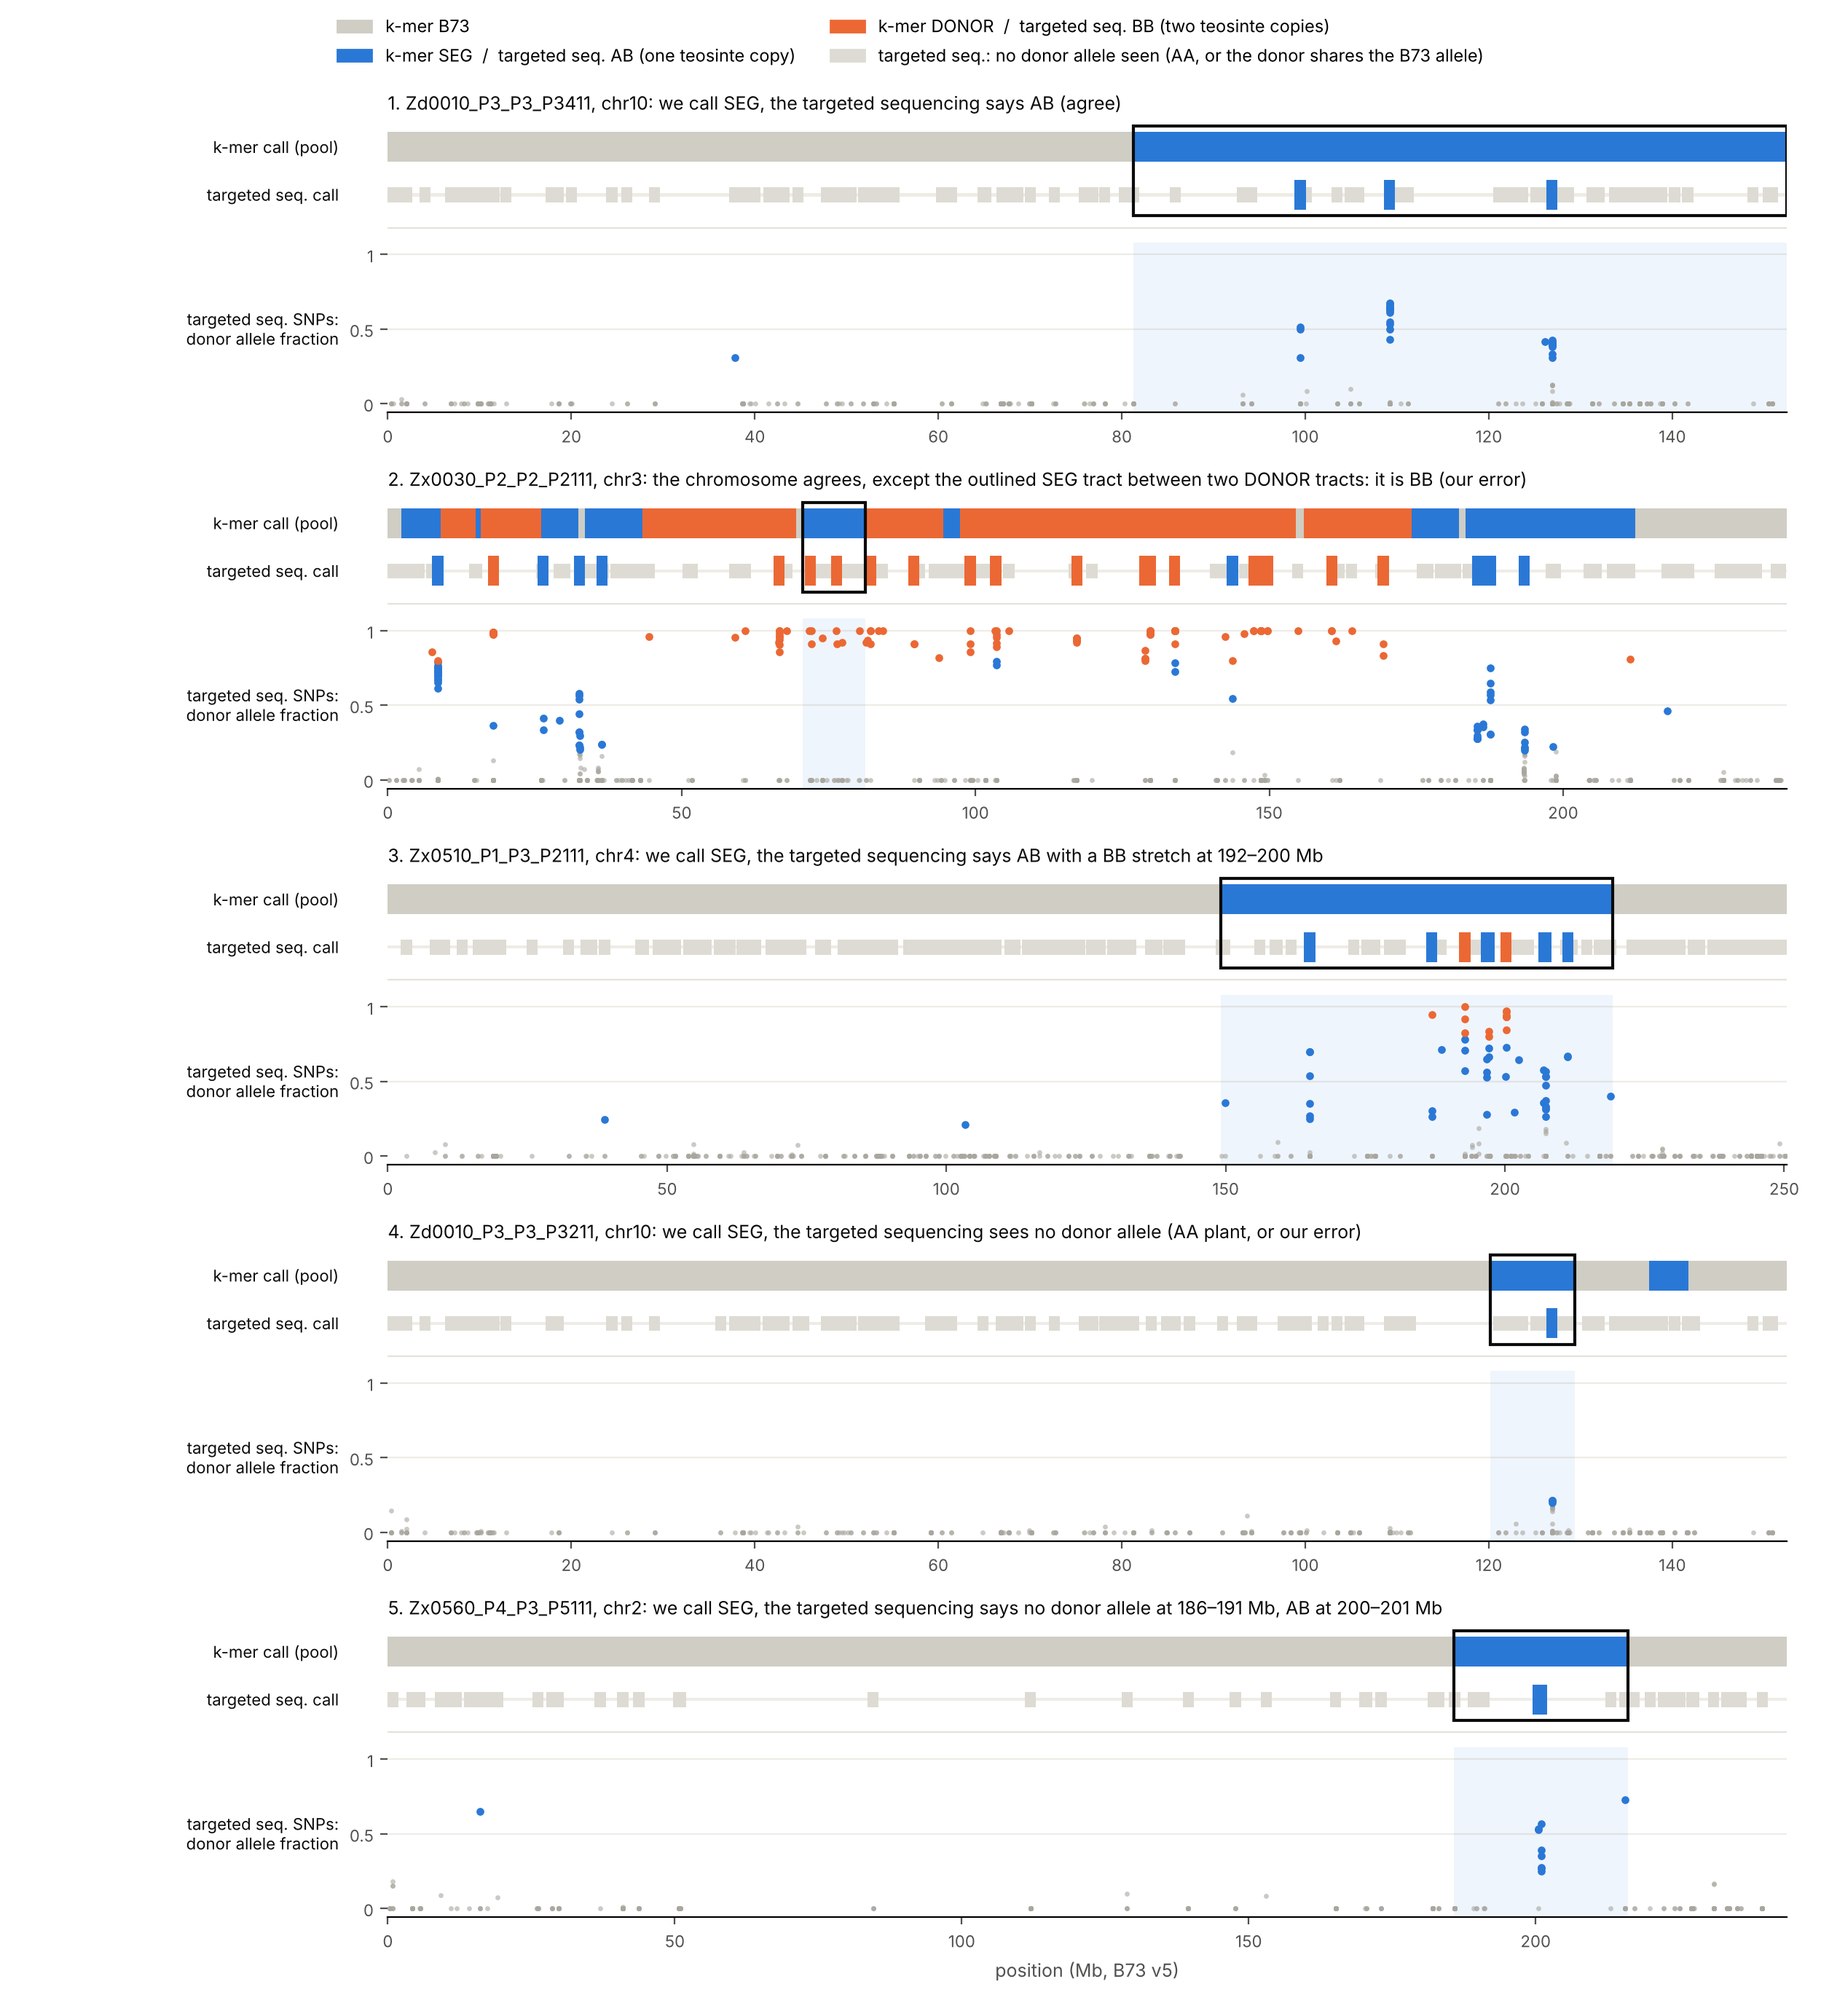
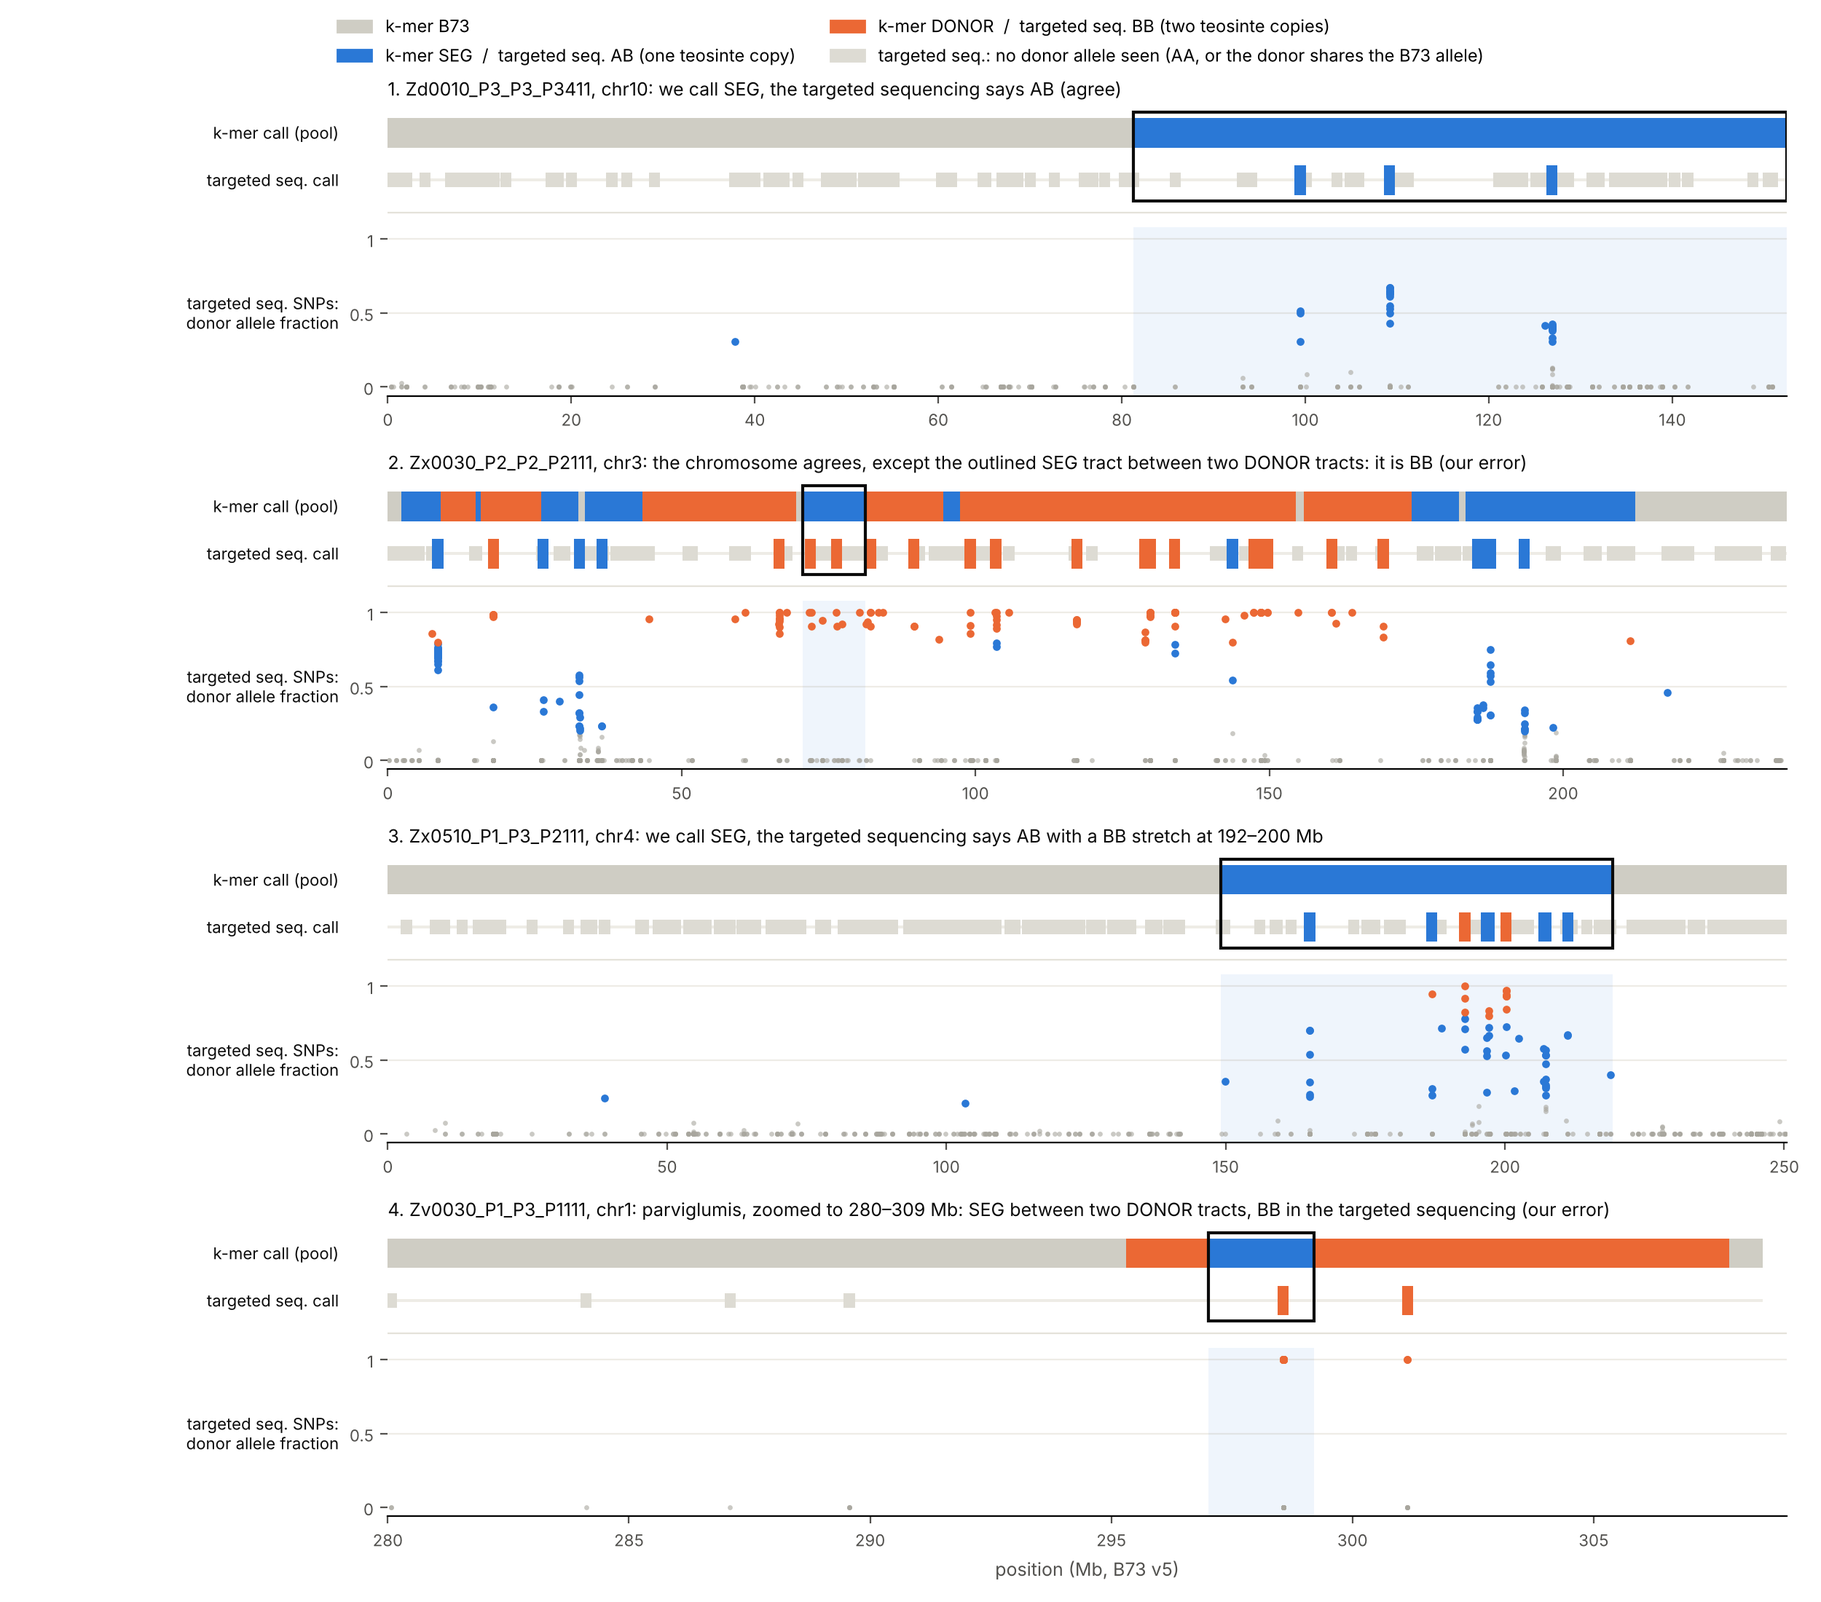
2.9.1: four example panels (zoomed parviglumis error); SEG-between-DONOR errors recur at fixed places; none under held QTL

diff --git a/final_script/34f_targseq_examples.py b/final_script/34f_targseq_examples.py
@@ -14,7 +14,7 @@ The outlined tract is the one described in the title. The three bad samples of 2
 
 Usage: python final_script/34f_targseq_examples.py --sites data/introgression_spread/targseq/sites_used.tsv.gz \
          --tracts data/introgression_spread/tracts_all.tsv.gz --out figures/targseq_examples.png \
-         [--example SAMPLE:CHR:START_MB:END_MB:"title" ...]
+         [--example SAMPLE:CHR[@FROM-TO]:START_MB:END_MB:"title" ...]   (@FROM-TO: zoom the panel to FROM-TO Mb)
 Needs: numpy, pandas, matplotlib.
 """
 import argparse
@@ -29,8 +29,7 @@ EX = [
     "Zd0010_P3_P3_P3411:chr10:81.28:152.45:we call SEG, the targeted sequencing says AB (agree)",
     "Zx0030_P2_P2_P2111:chr3:70.58:81.28:the chromosome agrees, except the outlined SEG tract between two DONOR tracts: it is BB (our error)",
     "Zx0510_P1_P3_P2111:chr4:149.16:219.23:we call SEG, the targeted sequencing says AB with a BB stretch at 192–200 Mb",
-    "Zd0010_P3_P3_P3211:chr10:120.16:129.36:we call SEG, the targeted sequencing sees no donor allele (AA plant, or our error)",
-    "Zx0560_P4_P3_P5111:chr2:185.74:216.04:we call SEG, the targeted sequencing says no donor allele at 186–191 Mb, AB at 200–201 Mb",
+    "Zv0030_P1_P3_P1111:chr1@280-309:297.01:299.21:parviglumis, zoomed to 280–309 Mb: SEG between two DONOR tracts, BB in the targeted sequencing (our error)",
 ]
 ap = argparse.ArgumentParser()
 ap.add_argument("--sites", required=True)
@@ -68,16 +67,20 @@ def regions(x):
 fig, axes = plt.subplots(len(ex), 1, figsize=(12.5, 2.75 * len(ex)))
 for k, (ax, (smp, ch, s0, e0, title)) in enumerate(zip(np.atleast_1d(axes), ex)):
     s0, e0 = float(s0), float(e0)
+    view = None
+    if "@" in ch:                                   # chr1@280-309: zoom to 280-309 Mb
+        ch, v = ch.split("@"); view = tuple(float(q) for q in v.split("-"))
     x = S[(S["sample"] == smp) & (S.chr == ch)]
     pool = x.pool.iloc[0]
     t = T[(T.SAMPLE == pool) & (T.CHROM == ch)]
     L = t.END.max() / 1e6
+    Lw = (view[1] - view[0]) if view else L          # scale for minimum widths
     Y1, Y2, H = 1.62, 1.30, 0.20                  # row 1 (k-mer) and row 2 (targseq call) bands
     for r in t.itertuples():
         ax.add_patch(Rectangle((r.START / 1e6, Y1), (r.END - r.START) / 1e6, H, color=COL[r.STATE], lw=0))
     ax.add_patch(Rectangle((0, Y2 + H / 2 - 0.01), L, 0.02, color="#eeece6", lw=0))
     for p0, p1, call, n in sorted(regions(x), key=lambda r: r[2] != "none"):   # informative regions drawn last
-        w = max((p1 - p0) / 1e6, 0.008 * L)
+        w = max((p1 - p0) / 1e6, 0.008 * Lw)
         x0 = (p0 + p1) / 2e6 - w / 2
         if call == "none":       # uninformative or AA: a short light tick
             ax.add_patch(Rectangle((x0, Y2 + 0.05), w, H - 0.10, color="#dddbd3", lw=0))
@@ -96,7 +99,7 @@ for k, (ax, (smp, ch, s0, e0, title)) in enumerate(zip(np.atleast_1d(axes), ex))
     for yy, lab in [(Y1 + H / 2, "k-mer call (pool)"), (Y2 + H / 2, "targeted seq. call"), (0.5, "targeted seq. SNPs:\ndonor allele fraction")]:
         ax.text(-0.035, yy, lab, ha="right", va="center", fontsize=8, color=INK, transform=ax.get_yaxis_transform())
     ax.set_title(f"{k + 1}. {smp}, {ch}: {title}", loc="left", fontsize=9, color=INK)
-    ax.set_xlim(0, L); ax.set_ylim(-0.06, 1.89)
+    ax.set_xlim(*(view or (0, L))); ax.set_ylim(-0.06, 1.89)
     ax.set_yticks([0, 0.5, 1]); ax.set_yticklabels(["0", "0.5", "1"])
     ax.spines[["top", "right", "left"]].set_visible(False)
     ax.tick_params(labelsize=8, colors=MUTED)

diff --git a/README.md b/README.md
@@ -713,7 +713,7 @@ Script: `final_script/22b_seg_donor_copies.py` (Slurm: `22b_seg_donor_copies.sh`
 6. **Three samples are bad and explain most mismatches:**
    - `Zv0480_P3_P2_P1211` is **contaminated**: 53% of its stray donor alleles (inside our B73 tracts) are homozygous-donor sites of `Zx0550_P4_P3_P5311`, a *mexicana* sample. This explains why its DONOR regions show intermediate fractions (mean 0.33).
    - `Zx0090_P2_P5_P1111` and `Zx0160_P2_P4_P1111` look like **sample swaps or wrong plants**: 8 and 10 of their DONOR tracts show no teosinte at all. Their targeted-sequencing DNA does not seem to come from the pool we sequenced.
-7. **An error of our HMM: short SEG tracts between two DONOR tracts are often DONOR.** In the targeted sequencing, SEG tracts that lie between two DONOR tracts are BB in **47%** of cases (18 of 38 clearly called), against 6.7% for SEG tracts next to one DONOR tract and **1.4%** for SEG tracts with no DONOR neighbour (3 of 216). This happens almost only in *parviglumis* (45%) and *mexicana* (54%); for *diploperennis*, *huehuetenangensis* and *luxurians* none of these tracts is BB. The likely cause is the DONOR level (d_w): where our donor plant keeps more of the B73 k-mers than the assemblies used for d_w, a DONOR window reads too high and looks SEG. These are the two taxa that already switch between SEG and DONOR most often (2.13). **Size:** such sandwiched SEG tracts are 0.38% of the genome (6.2% of all SEG; median 2.3 Mb). If about half of them are DONOR, DONOR rises from 4.94% to about 5.1% and SEG falls from 6.22% to about 6.0%, which does not change the DONOR deficit in 2.8.1 (expected 9.38%).
+7. **An error of our HMM: short SEG tracts between two DONOR tracts are often DONOR.** In the targeted sequencing, SEG tracts that lie between two DONOR tracts are BB in **47%** of cases (18 of 38 clearly called), against 6.7% for SEG tracts next to one DONOR tract and **1.4%** for SEG tracts with no DONOR neighbour (3 of 216). This happens almost only in *parviglumis* (45%) and *mexicana* (54%); for *diploperennis*, *huehuetenangensis* and *luxurians* none of these tracts is BB. The likely cause is the DONOR level (d_w): where our donor plant keeps more of the B73 k-mers than the assemblies used for d_w, a DONOR window reads too high and looks SEG. These are the two taxa that already switch between SEG and DONOR most often (2.13). **The errors sit at the same places in many pools.** Counting, for every 1-Mb bin, the pools whose SEG tract between two DONOR tracts covers it: the median bin has 5 such pools, but chr6 21–23 Mb has 48, chr1 297 Mb 28, chr7 54–65 Mb 26–28 and chr3 75–78 Mb 19 (14 of them *mexicana*). In the targeted sequencing, chr3 70.6–81 Mb is BB in five samples of both taxa (panel 2) and chr1 297–299 Mb in two (panel 4). So the error comes from specific windows where the assemblies' DONOR level does not fit our donors, not from the HMM at random; these windows can be flagged, or their DONOR level re-estimated from our own DONOR pools. None of the QTL that hold in the joint model lies in these regions. **Size:** such sandwiched SEG tracts are 0.38% of the genome (6.2% of all SEG; median 2.3 Mb). If about half of them are DONOR, DONOR rises from 4.94% to about 5.1% and SEG falls from 6.22% to about 6.0%, which does not change the DONOR deficit in 2.8.1 (expected 9.38%).
 
 **Examples: our calls against the targeted sequencing.** Each panel is one sample and one chromosome, in three rows:
 - **k-mer call (pool):** our HMM call of the 6-plant pool, from the 0.8x skim-seq;
@@ -722,15 +722,14 @@ Script: `final_script/22b_seg_donor_copies.py` (Slurm: `22b_seg_donor_copies.sh`
 
 The outlined tract is the one in the title.
 
-![Our k-mer calls against the targeted sequencing, five examples](figures/targseq_examples.png)
+![Our k-mer calls against the targeted sequencing, four examples](figures/targseq_examples.png)
 
 1. **We call SEG; the targeted sequencing says AB. They agree** (`Zd0010_P3_P3_P3411`, chr10 81–152 Mb; 32 SNPs at 0.3–0.7, none at 0.8 or above).
-2. **The whole chromosome agrees, except one tract** (`Zx0030_P2_P2_P2111`, chr3). Our DONOR tracts are BB, our SEG tracts (0–40 and 175–210 Mb) are AB, and our B73 tracts show no donor allele. The exception is the outlined **SEG tract between two DONOR tracts** (71–81 Mb): the targeted sequencing says BB there, like the DONOR on both sides. **This is very likely our error: DONOR called SEG** (see point 7 below).
-3. **We call SEG; the targeted sequencing says AB with a BB stretch at 192–200 Mb** (`Zx0510_P1_P3_P2111`, chr4). A plant of a segregating family can be AB in one part and BB in another, where it recombined.
-4. **We call SEG; the targeted sequencing sees no donor allele** (`Zd0010_P3_P3_P3211`, chr10 120–129 Mb; 103 SNPs in 7 regions, 3 near 0.2). Either the plant sequenced is AA here, or our SEG call is wrong.
-5. **We call SEG; no donor allele at 186–191 Mb, AB at 200–201 Mb** (`Zx0560_P4_P3_P5111`, chr2). For one plant this is a crossover between 191 and 200 Mb.
+2. **The whole chromosome agrees, except one tract** (`Zx0030_P2_P2_P2111`, *mexicana*, chr3). Where we call SEG (0–45 and 175–210 Mb) the targeted sequencing shows AB, with some BB; where we call DONOR (45–175 Mb) it shows BB; where we call B73 it shows no donor allele. The exception is the outlined **SEG tract between two DONOR tracts** (71–81 Mb): the targeted sequencing says BB, like the DONOR on both sides, so 45–175 Mb is one DONOR block and the SEG island inside it is **our error** (point 7).
+3. **We call SEG; the targeted sequencing says AB with a BB stretch at 192–200 Mb** (`Zx0510_P1_P3_P2111`, chr4). A plant of a segregating family can be AB in one part and BB in another, where it recombined, so this agrees with SEG.
+4. **The same error in *parviglumis*** (`Zv0030_P1_P3_P1111`, chr1, zoomed to 280–309 Mb). We call a 2.2-Mb SEG tract between two DONOR tracts; the targeted sequencing has 28 SNPs at about 1 there (BB), like the DONOR beside it.
 
-Panels 3–5 are what a SEG family's plants can look like: AA, AB or BB, changing where they recombined. Whether they also count as agreement depends on whether the targeted-sequencing DNA is one plant (see "One plant or a bulk?" below). **How to read the SNPs:** they come in clusters (one targeted region each, often 5–30 SNPs), so points stack at one position; and SNPs of one region can differ (for example 0.3 and 0.95 at chr4 186.9 Mb), probably from amplification bias. So a region is read from all its SNPs together, and a tract from its median (as in the table).
+**How to read the SNPs:** they come in clusters (one targeted region each, often 5–30 SNPs), so points stack at one position; and SNPs of one region can differ (for example 0.3 and 0.95 at chr4 186.9 Mb), probably from amplification bias. So a region is read from all its SNPs together, and a tract from its median (as in the table).
 
 **One plant or a bulk?** This matters only for the SEG row, and it waits for confirmation of what DNA was sequenced:
 - **If it is one plant of the plot,** a SEG plot's plant should be AA : AB : BB = 25 : 50 : 25 (child of an AB mother). We see 21 : 71 : 8 among the clearly called tracts, which would mean BB plants are strongly depleted, as in the selection we infer in 2.8.1. An AB plant's donor allele fraction should also centre on 0.5; we see 0.45 (middle half of the well-covered tracts 0.37–0.51).
@@ -871,7 +870,7 @@ To view it, download the file and open it in a browser. GitHub shows HTML files 
 
 **Short tracts aren't proven yet.** The k-mer HMM calls tracts down to about 400 kb. Short tracts are expected from the crossing scheme ([Tract lengths](#265-how-long-are-the-tracts)), and they are shared by relatives as often as long tracts (below), but single short calls haven't been checked with independent data.
 
-**SEG vs DONOR is now checked with targeted sequencing** ([2.9.1](#291-independent-check-targeted-sequencing-of-85-plots)): our DONOR tracts are homozygous teosinte (86%), our SEG tracts intermediate (71% AB, donor allele fraction 0.45) and our B73 tracts clean (96.5%). What is still open is whether the targeted-sequencing DNA is one plant or a bulk, which decides how the SEG row is read, and tracts shorter than 1 Mb, which were not compared. The check also found one systematic error: in *parviglumis* and *mexicana*, short SEG tracts between two DONOR tracts are often DONOR (2.9.1, point 7), probably from the assembly-based DONOR level. A fix would be a family- or pool-specific DONOR level, or a rule that a short SEG tract between two DONOR tracts needs stronger evidence than the transitions now ask for.
+**SEG vs DONOR is now checked with targeted sequencing** ([2.9.1](#291-independent-check-targeted-sequencing-of-85-plots)): our DONOR tracts are homozygous teosinte (86%), our SEG tracts intermediate (71% AB, donor allele fraction 0.45) and our B73 tracts clean (96.5%). What is still open is whether the targeted-sequencing DNA is one plant or a bulk, which decides how the SEG row is read, and tracts shorter than 1 Mb, which were not compared. The check also found one systematic error: in *parviglumis* and *mexicana*, short SEG tracts between two DONOR tracts are often DONOR (2.9.1, point 7), probably from the assembly-based DONOR level. The errors recur at a few places (chr6 21–23, chr7 54–65, chr1 297, chr3 75–78 Mb). A fix would be to re-estimate the DONOR level there from our own DONOR pools, a family- or pool-specific DONOR level, or a rule that a short SEG tract between two DONOR tracts needs stronger evidence than the transitions now ask for.
 
 **The DONOR level depends on the assemblies.** The model needs to know how much of each window's B73 k-mers a teosinte genome keeps (d_w). The best source would have been **the actual donor parents** of our lines, sequenced. We don't have them, so we use teosinte assemblies from MaizeGDB (PanAnd). Those are other plants of the same taxa, so in diverse taxa they can differ from our donors:
 - Zv and Zx still switch between SEG and DONOR about twice as often as the other taxa, even after allowing for this uncertainty.
